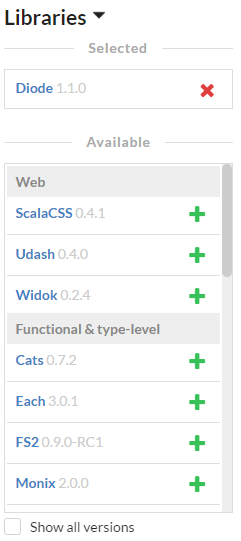
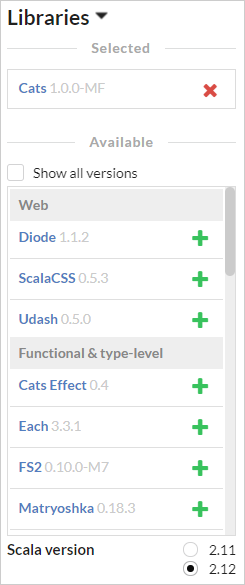
Switch to Alpine JDK version for smaller image size.
Minor update to UI.

diff --git a/docs/Welcome.md b/docs/Welcome.md
@@ -32,9 +32,11 @@ To make sure you can later find your fiddle, remember to add a **Name** and **De
 
 You can experiment with different supported Scala libraries by selecting them from the **Libraries** section on the left
 sidebar. Just press the **+** button to add a library to your fiddle, and **X** to remove it. The latest version is shown by
-default but you can also **Show all versions** if you need to work with an older one.
+default, but you can also **Show all versions** if you need to work with an older one.
 
 ![libraries](libraries.png)
+
+By default new fiddles use Scala 2.12, but you can also select another Scala version.
 
 ## Editing code
 
